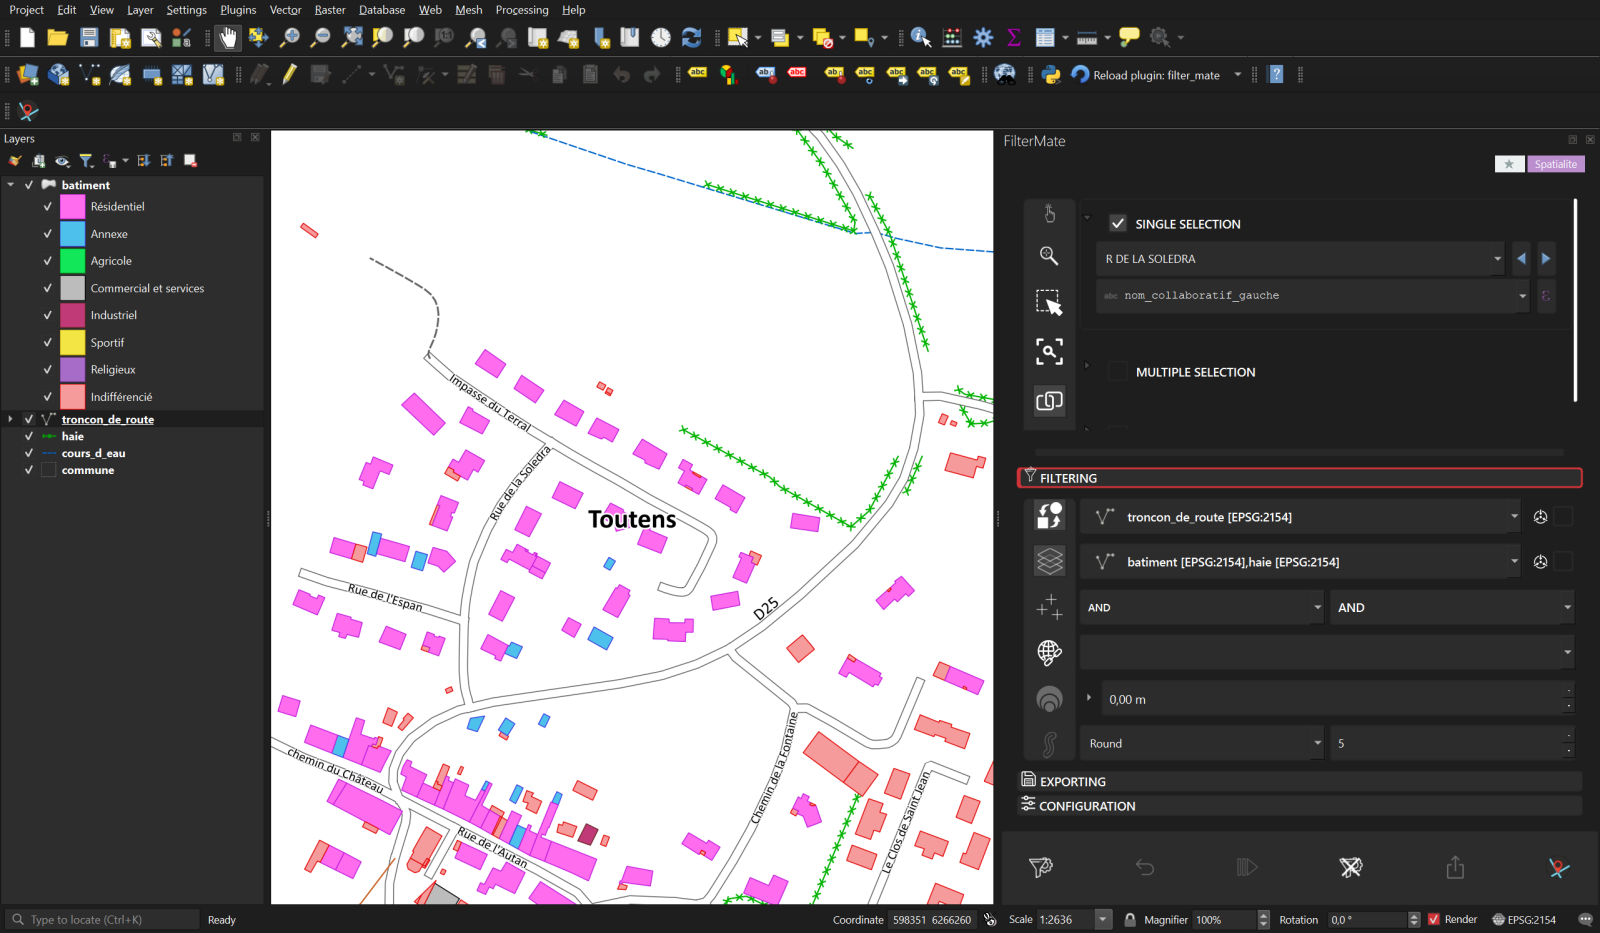
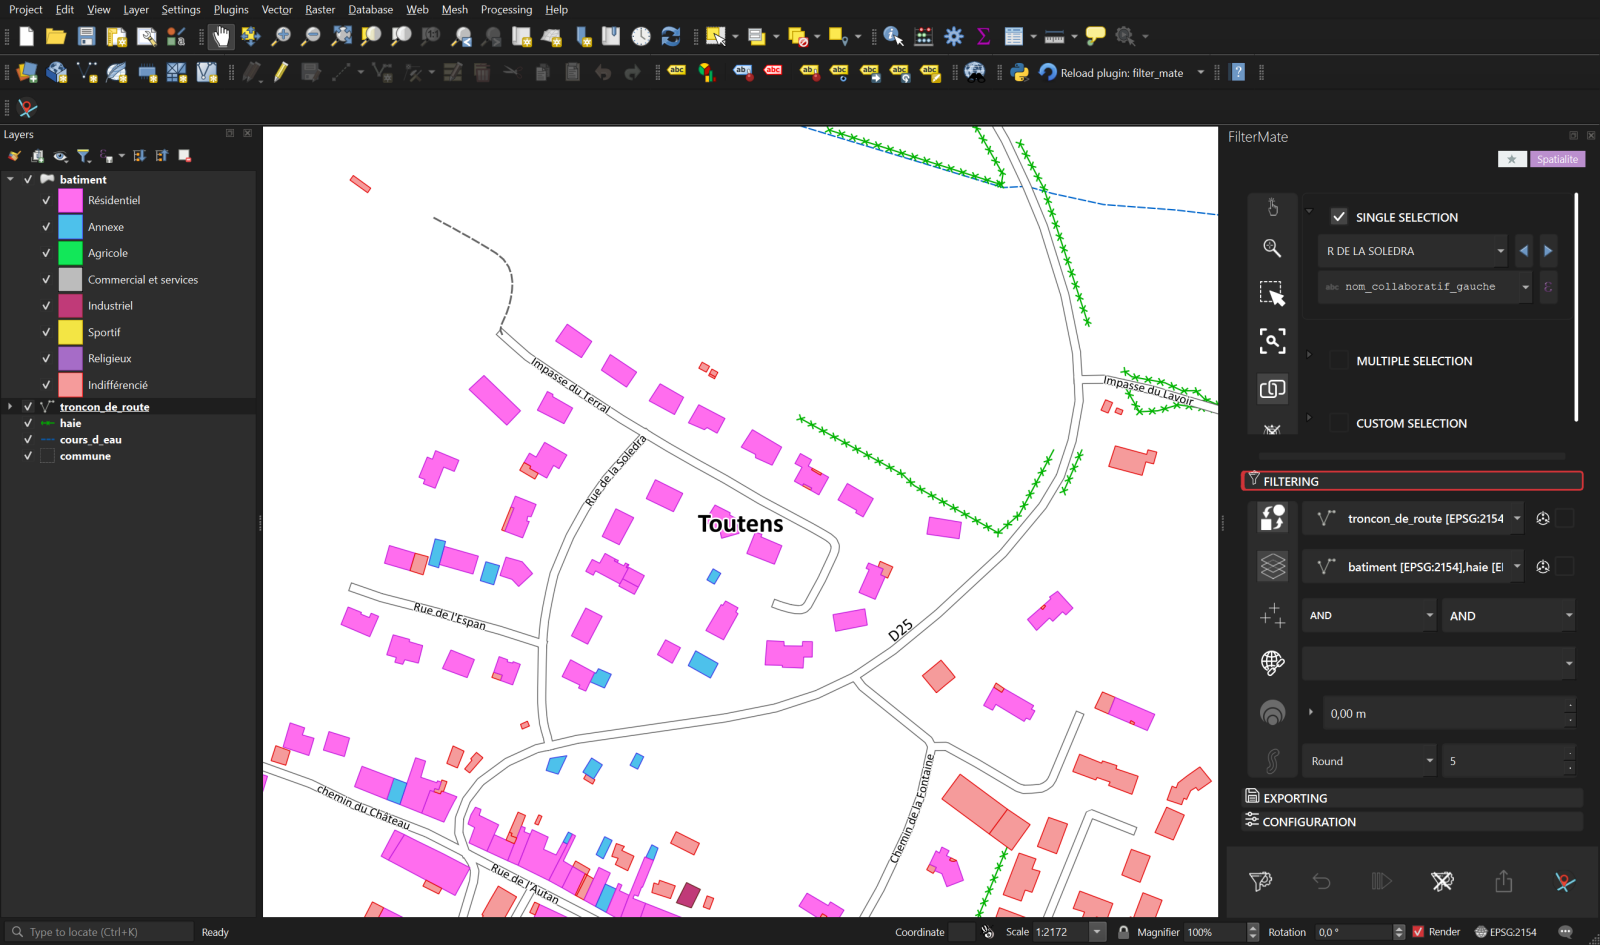
Retake the guide screenshots with the panel at its usual width
The captures were taken with the FilterMate panel forced to 640 logical
pixels, wider than it opens on a normal profile. All panel and window
captures (tutorial steps included) are retaken with the panel resized to
413 logical pixels, the width of the screenshots already used in the
README. The two screenshot scripts set that width explicitly so the
result no longer depends on the dock size QGIS saved on its last exit.

diff --git a/scripts/guide_tutorial_screenshots.py b/scripts/guide_tutorial_screenshots.py
@@ -59,7 +59,9 @@ def s_open():
     plugins['filter_mate'].run()
 
 def s_step1():
-    dock().setMinimumWidth(640)
+    d = dock()
+    d.setMinimumWidth(0)
+    iface.mainWindow().resizeDocks([d], [413], Qt.Orientation.Horizontal)
     iface.setActiveLayer(layer('troncon_de_route'))
 
 def s_grab1():

diff --git a/scripts/guide_screenshots.py b/scripts/guide_screenshots.py
@@ -88,7 +88,8 @@ def s_open_plugin():
 
 def s_after_open():
     d = dock()
-    d.setMinimumWidth(640)
+    d.setMinimumWidth(0)
+    iface.mainWindow().resizeDocks([d], [413], Qt.Orientation.Horizontal)
     save(plugins['filter_mate'].toolbar, '00-toolbar')
 
 def s_exploring_single():
